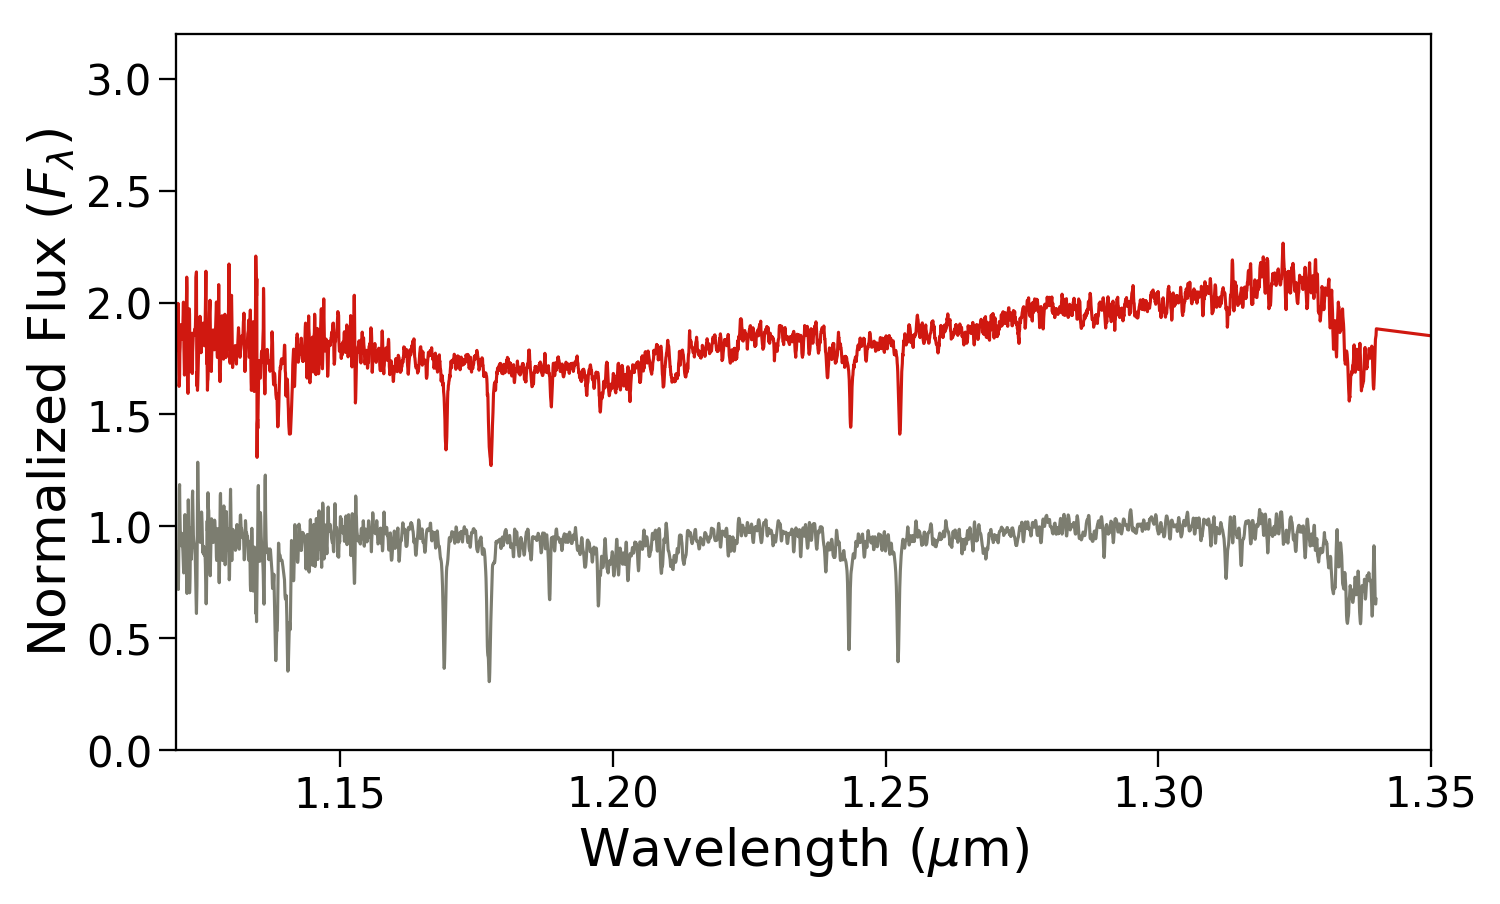
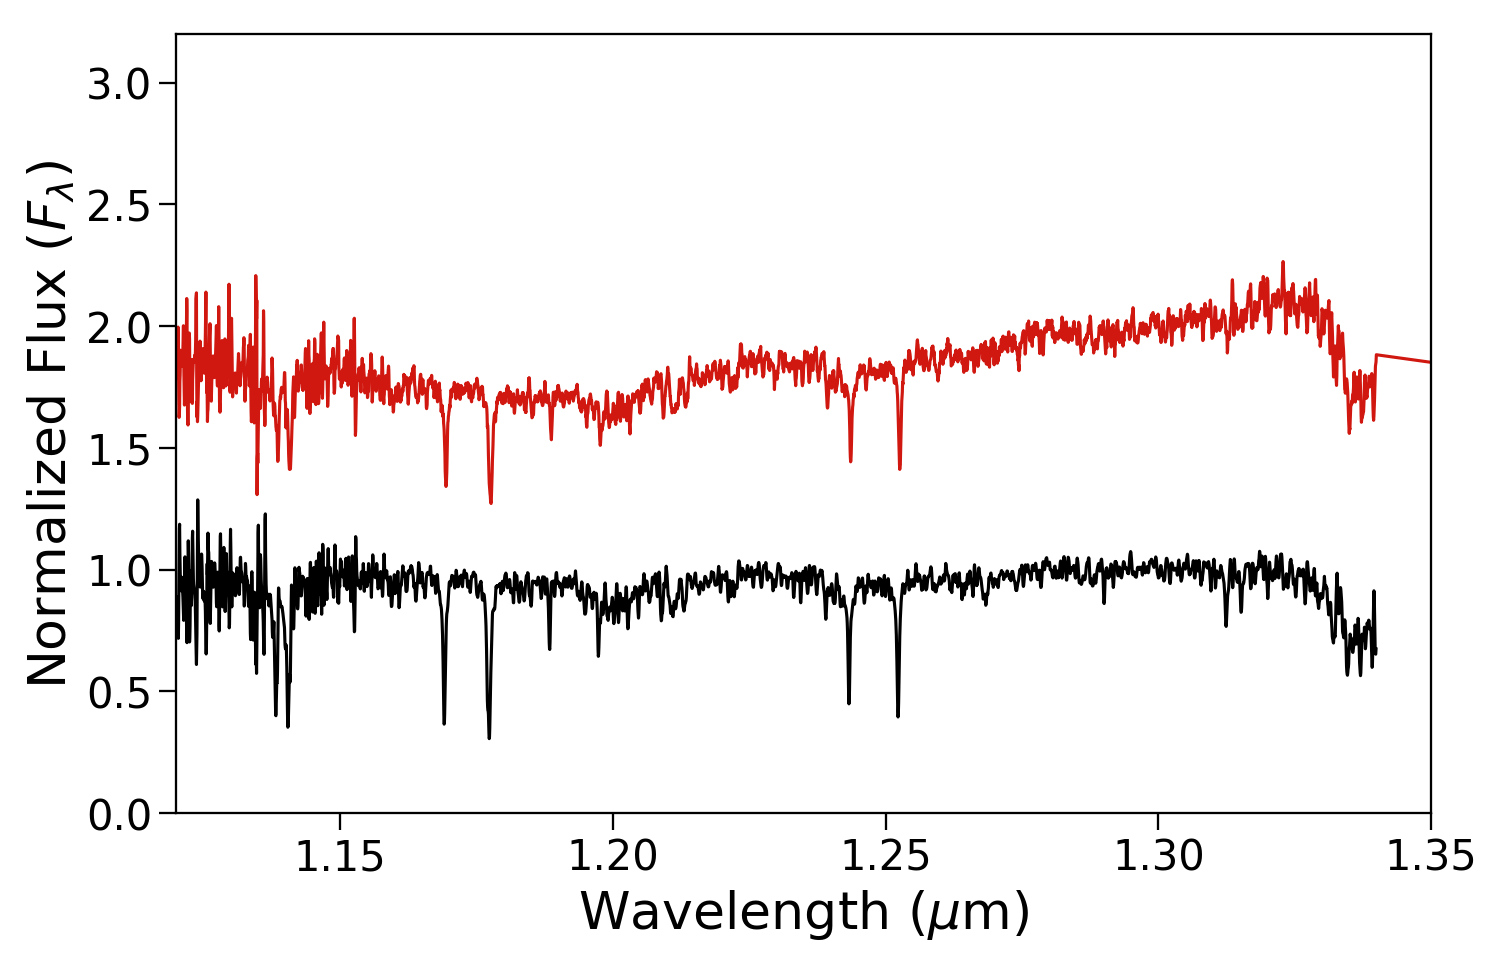
H band and redos to make Trappist black across all plots

diff --git a/HbandBestfit.py b/HbandBestfit.py
@@ -13,21 +13,21 @@ df_trap = pd.read_csv('Data/FIRE2306-0502 (M7.5) SED.txt', sep=" ", comment='#',
 # Comparison objects that fit the overall SED shape the best
 df_2154 = pd.read_csv('Data/young_comp/FIRE2154-7459 (M9.5beta) SED1.txt', sep=" ", comment='#', header=0,
                       names=["w", "f", "err"])
-df_HD = pd.read_csv('../Atmospheres_paper/Data/HD114762B (M9sd) SED.txt', sep=" ", comment='#', header=None,
-                    names=["w", "f", "err"])
+# df_HD = pd.read_csv('../Atmospheres_paper/Data/HD114762B (M9sd) SED.txt', sep=" ", comment='#', header=None,
+#                     names=["w", "f", "err"])
 
 # -------------------------------------------------------------------------------------
 # ------------------------- Normalize the spectra -------------------------------------
 # -------------------------------------------------------------------------------------
 # Determine region good for all spectra to take the average flux over
-norm_region = df_trap[(df_trap['w'] >= 1.29) & (df_trap['w'] <= 1.31)]
+norm_region = df_trap[(df_trap['w'] >= 1.5) & (df_trap['w'] <= 1.52)]
 norm_df_trap = df_trap['f']/(np.average(norm_region['f']))
 
-norm_region2 = df_2154[(df_2154['w'] >= 1.29) & (df_2154['w'] <= 1.31)]
+norm_region2 = df_2154[(df_2154['w'] >= 1.5) & (df_2154['w'] <= 1.52)]
 norm_df_young = df_2154['f']/(np.average(norm_region2['f']))
 
-norm_region3 = df_HD[(df_HD['w'] >= 1.29) & (df_HD['w'] <= 1.31)]
-norm_df_old = df_HD['f']/(np.average(norm_region3['f']))
+# norm_region3 = df_HD[(df_HD['w'] >= 1.29) & (df_HD['w'] <= 1.31)]
+# norm_df_old = df_HD['f']/(np.average(norm_region3['f']))
 
 # -------------------------------------------------------------------------------------
 # ------------------- Plotting: Y band comparison -------------------------------
@@ -37,8 +37,8 @@ fig = plt.figure()
 ax1 = fig.add_subplot(111)
 fig.set_size_inches(10, 6.45)
 plt.gcf().subplots_adjust(bottom=0.15, left=0.15)
-plt.xlim([1.12, 1.35])
-plt.ylim([0, 3.2])
+plt.xlim([1.42, 1.80])
+plt.ylim([0, 3])
 for axis in ['top', 'bottom', 'left', 'right']:  # Thicken the frame
     ax1.spines[axis].set_linewidth(1.1)
 
@@ -50,11 +50,29 @@ plt.ylabel('Normalized Flux ($F_\lambda$)', fontsize=25)
 
 # -------- Add data -----------
 #ax1.plot(df_HD['w'], norm_df_old, c='blue')
-ax1.plot(df_trap['w'], norm_df_trap, c='k')  #7C7D70
+ax1.plot(df_trap['w'], norm_df_trap, c='k')  ##7C7D70
 ax1.plot(df_2154['w'], norm_df_young + 1, c='#D01810')
 
-#TODO: Add these labels in later
-# --- To make line for features ---------
+# ------- Label Features --------------------------
+FeH = pd.DataFrame()
+FeH['x'] = [1.581, 1.66]
+FeH['y'] = [2.5, 2.5]
+plt.plot(FeH['x'], FeH['y'], color='k')
+ax1.annotate('FeH', xy=(1.6, 2.51), color='k', fontsize=15)
+FeHd = pd.DataFrame()
+FeHd['x'] = [1.581, 1.581]
+FeHd['y'] = [2.35, 2.5]
+plt.plot(FeHd['x'], FeHd['y'], color='k')
+
+CH4 = pd.DataFrame()
+CH4['x'] = [1.67, 1.75]
+CH4['y'] = [2.7, 2.7]
+plt.plot(CH4['x'], CH4['y'], color='k')
+ax1.annotate('CH$_\mathrm{4}$', xy=(1.70, 2.72), color='k', fontsize=15)
+CH4d = pd.DataFrame()
+CH4d['x'] = [1.67, 1.67]
+CH4d['y'] = [2.5, 2.7]
+plt.plot(CH4d['x'], CH4d['y'], color='k')
 
 plt.tight_layout()
-plt.savefig('Figures/Jbandbestfit.png', dpi=150)
+plt.savefig('Figures/Hbandbestfit.png', dpi=150)

diff --git a/HbandTeffcomp.py b/HbandTeffcomp.py
@@ -45,6 +45,26 @@ norm_df_twa26 = df_twa26['f']/(np.average(norm_region5['f']))
 norm_region6 = df_twa29[(df_twa29['w'] >= 1.5) & (df_twa29['w'] <= 1.52)]
 norm_df_twa29 = df_twa29['f']/(np.average(norm_region6['f']))
 
+# Try normalizing the peak of the H-band, It didn't make things stand out more. Keep with original
+# h_bandtrap = df_trap[(df_trap['w'] >= 1.42) & (df_trap['w'] <= 1.8)]
+# norm_df_trap = df_trap['f']/(np.max(h_bandtrap['f']))
+#
+# h_bandvb8 = df_vb8[(df_vb8['w'] >= 1.42) & (df_vb8['w'] <= 1.8)]
+# norm_df_vb8 = df_vb8['f']/(np.max(h_bandvb8['f']))
+#
+# h_bandtwa27 = df_twa27[(df_twa27['w'] >= 1.42) & (df_twa27['w'] <= 1.8)]
+# norm_df_twa27 = df_twa27['f']/(np.max(h_bandtwa27['f']))
+#
+# h_bandtwa28 = df_twa28[(df_twa28['w'] >= 1.42) & (df_twa28['w'] <= 1.8)]
+# norm_df_twa28 = df_twa28['f']/(np.max(h_bandtwa28['f']))
+#
+# h_bandtwa26 = df_twa26[(df_twa26['w'] >= 1.42) & (df_twa26['w'] <= 1.8)]
+# norm_df_twa26 = df_twa26['f']/(np.max(h_bandtwa26['f']))
+#
+# h_bandtwa29 = df_twa29[(df_twa29['w'] >= 1.42) & (df_twa29['w'] <= 1.8)]
+# norm_df_twa29 = df_twa29['f']/(np.max(h_bandtwa29['f']))
+
+
 # -------------------------------------------------------------------------------------
 # ------------------- Plotting: H band comparison -------------------------------
 # -------------------------------------------------------------------------------------
@@ -53,8 +73,8 @@ fig = plt.figure()
 ax1 = fig.add_subplot(111)
 fig.set_size_inches(8.5, 11)
 plt.gcf().subplots_adjust(bottom=0.15, left=0.15)
-plt.xlim([1.12, 1.35])
-plt.ylim([0, 5])
+plt.xlim([1.42, 1.80])
+plt.ylim([0.5, 4.5])
 for axis in ['top', 'bottom', 'left', 'right']:  # Thicken the frame
     ax1.spines[axis].set_linewidth(1.1)
 
@@ -65,14 +85,33 @@ plt.ylabel('Normalized Flux ($F_\lambda$)', fontsize=25)
 
 # -------- Add data -----------
 ax1.plot(df_vb8['w'], norm_df_vb8, c='#7C7D70')
-ax1.plot(df_trap['w'], norm_df_trap + 1, c='k')
-ax1.plot(df_twa27['w'], norm_df_twa27 + 1.5, c='#FF6C11')
-ax1.plot(df_twa28['w'], norm_df_twa28 + 2, c='#E8470F')
-ax1.plot(df_twa26['w'], norm_df_twa26 + 2.5, c='#FF3215')
-ax1.plot(df_twa29['w'], norm_df_twa29 + 3.1, c='#E81011')
+ax1.plot(df_trap['w'], norm_df_trap + 0.5, c='k')
+ax1.plot(df_twa27['w'], norm_df_twa27 + 1, c='#FF6C11')
+ax1.plot(df_twa28['w'], norm_df_twa28 + 1.5, c='#E8470F')
+ax1.plot(df_twa26['w'], norm_df_twa26 + 2, c='#FF3215')
+ax1.plot(df_twa29['w'], norm_df_twa29 + 2.5, c='#E81011')
 
 #TODO: Add these labels in later
-# ------- Label Features --------------
+# ------- Label Features --------------------------
+FeH = pd.DataFrame()
+FeH['x'] = [1.581, 1.66]
+FeH['y'] = [4, 4]
+plt.plot(FeH['x'], FeH['y'], color='k')
+ax1.annotate('FeH', xy=(1.581, 4.01), color='k', fontsize=15)
+FeHd = pd.DataFrame()
+FeHd['x'] = [1.581, 1.581]
+FeHd['y'] = [3.85, 4]
+plt.plot(FeHd['x'], FeHd['y'], color='k')
+
+CH4 = pd.DataFrame()
+CH4['x'] = [1.67, 1.75]
+CH4['y'] = [4.25, 4.25]
+plt.plot(CH4['x'], CH4['y'], color='k')
+ax1.annotate('CH$_\mathrm{4}$', xy=(1.67, 4.28), color='k', fontsize=15)
+CH4d = pd.DataFrame()
+CH4d['x'] = [1.67, 1.67]
+CH4d['y'] = [4.1, 4.25]
+plt.plot(CH4d['x'], CH4d['y'], color='k')
 
 plt.tight_layout()
 plt.savefig('Figures/Hbandteffcomp.png', dpi=150)

diff --git a/Ybandbestfit.py b/Ybandbestfit.py
@@ -51,7 +51,7 @@ plt.ylabel('Normalized Flux ($F_\lambda$)', fontsize=25)
 
 # -------- Add data -----------
 #ax1.plot(df_HD['w'], norm_df_old, c='blue')
-ax1.plot(df_trap['w'], norm_df_trap, c='#7C7D70')
+ax1.plot(df_trap['w'], norm_df_trap, c='k')  #7C7D70
 ax1.plot(df_2154['w'], norm_df_young + 0.75, c='#D01810')
 
 # --- To make line for features ---------
